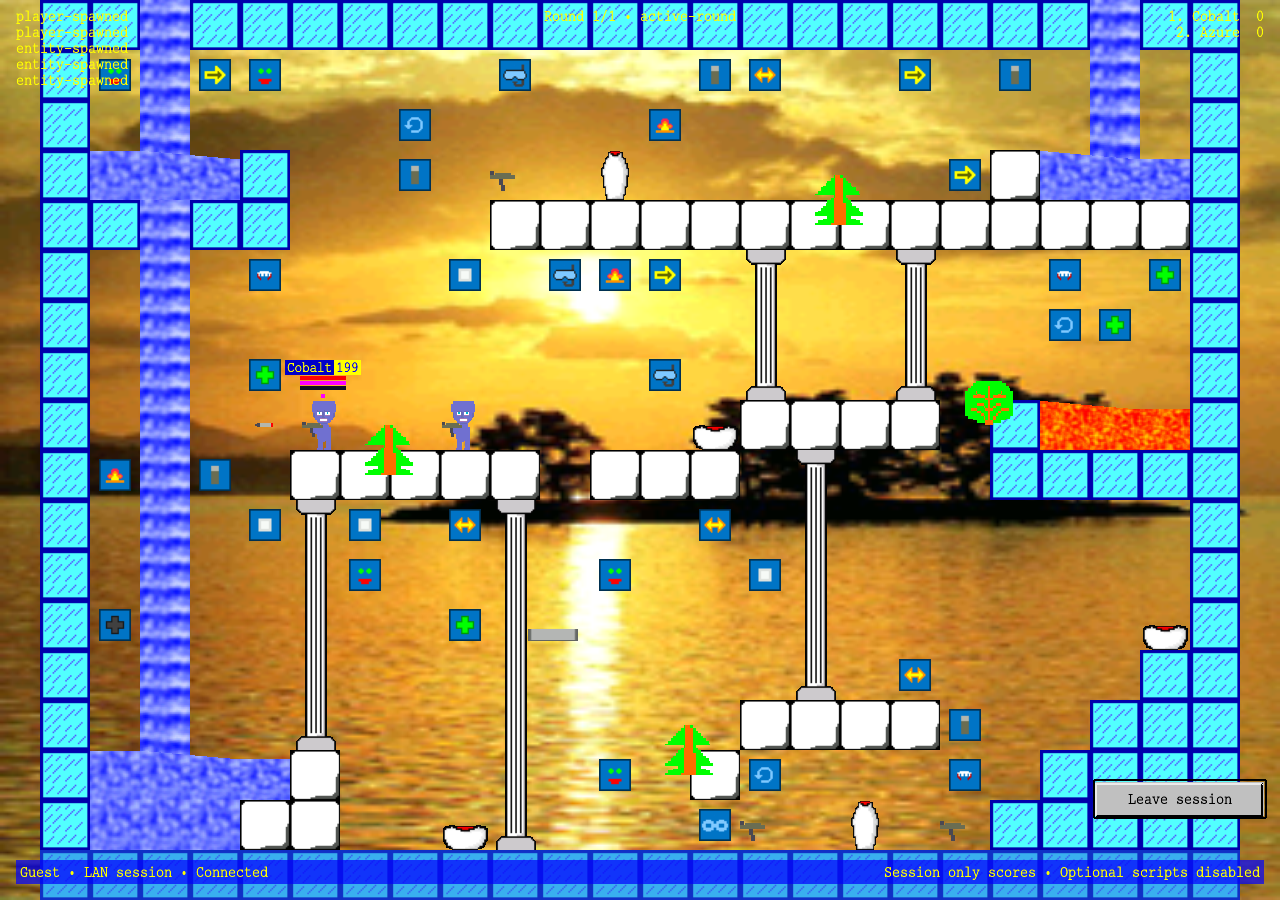
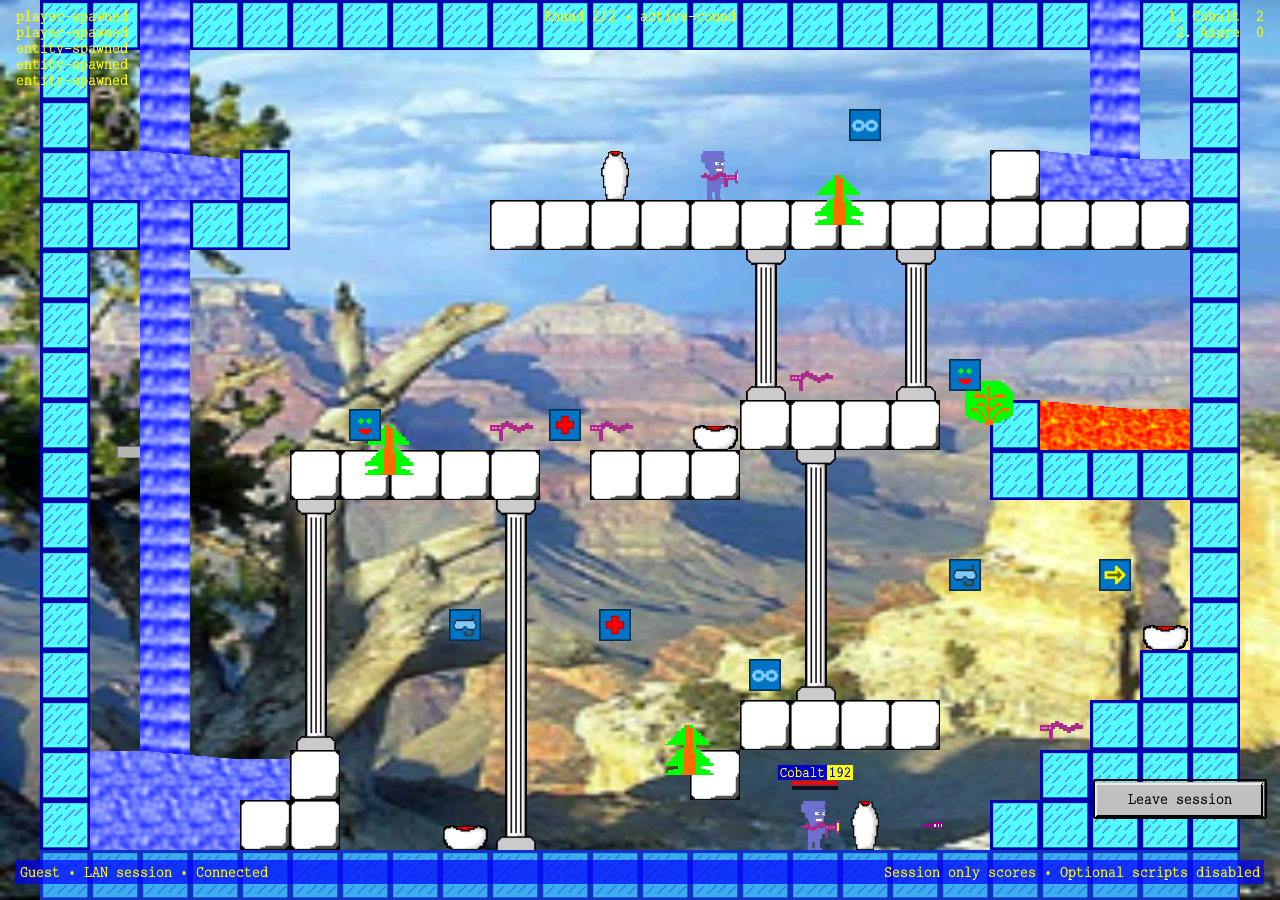
Record accepted KissOfDeath contrast screenshots

diff --git a/docs/design/screenshots/README.md b/docs/design/screenshots/README.md
@@ -216,12 +216,12 @@ Team reports functional closure satisfied through source review, developer tests
 
 ## KissOfDeath contrast — current affected coverage
 
-**Matrix status: defined; capture not released; current conformance: Pending.** The approved localized refinement affects only the light highlight in `resources/textures/weapon/012/shot/002.tga`. The supplied investigation checkpoint is `b736d4ef1cc8faa94e03a4556bf6ba5f68023962`; developer must verify that baseline and record the exact frozen artwork candidate before capture. This plan does not authorize application execution, environment provisioning, device operation, or a new platform/test campaign. Developer owns permitted capture after team-declared functional closure.
+**Current conformance: satisfied for both supplied Linux originals. Capture release: completed after team-declared functional closure of frozen candidate `5f4b4aa8ced4469c980c882a8dba4b3d3911c0e1`.** The approved localized refinement affects only six highlight pixels in `resources/textures/weapon/012/shot/002.tga`. Fixed canonical specifications and wireframes remain at `b736d4ef1cc8faa94e03a4556bf6ba5f68023962`. The assessment below owns current original hashes, reproduction inputs and acceptance limits. No new device, platform or temporal campaign is authorized.
 
 ### Fixed sources and bounded delta
 
 - Reuse [PLAY-01](../../screens/play-fullscreen.md) and its [PLAY-01 wireframe](../../screens/wireframes/play-fullscreen.md), [NET-05 functional contract](../../screens/network-match.md), [NET-05 UX specification](../screens/NET-05.md), its [NET-05 wireframe](../../screens/wireframes/network-match.md), and the [existing design system](../../design.md) from the verified baseline. All normative specifications and wireframes stay unchanged. No structural variant, layout, viewport class, or functional state is added.
-- The supplied investigation describes frame 002 as 36 occupied pixels within a 12 by 4 occupied bounding box, with no white highlight; frames 000 and 001 each have six white highlight pixels. These are supplied asset observations, not dimensions or pixel coordinates independently decoded by UX. The bounding box is not the texture canvas size. Developer must verify the original canvas, occupied mask and donor highlight coordinates before editing.
+- Developer's source-tied asset proof confirms a 32 by 32 canvas and 36 occupied pixels before and after the change. Exactly six existing occupied RGB pixels change from `(156,0,156)` to `(255,255,255)`: top-left, zero-based coordinates `(8,4)`, `(10,4)`, `(12,4)`, `(8,5)`, `(10,5)`, `(12,5)`. The header, occupied/black-key transparency mask and other resource files remain unchanged. The original 12 by 4 occupied bounding box is not the texture canvas size. These exact invariants are developer-supplied proof, not binary decoding executed by UX.
 - The approved visual delta is a retained light patch inside frame 002's existing magenta silhouette. Use the existing white highlight in frame 001 as the donor; do not introduce a new palette, outline, glow, trail, or enlarged silhouette. Preserve frame 002's canvas, occupied mask, transparency, alignment and remaining colors. The implementation handoff defines the bounded donor-pixel adjustment; this matrix does not create a second normative artwork specification.
 - `source/weapon/impl/KissOfDeathShot.cpp` supplies the shared `0, 1, 2, 1` shot sequence and network projectile visual. `source/weapon/LegacyWeapon.cpp` loads the shared shot stack with nearest filtering. `source/CanonicalWorldPresenter.cpp` presents that stack from authoritative projectile state. Reuse these paths without changing animation timing, geometry, speed, collision, renderer, filtering, or replication. Other weapon, gun and explosion assets remain outside scope.
 
@@ -233,22 +233,37 @@ Use the existing Linux x86-64 Docker Release GL4/Lua ON desktop profile, standar
 
 | Existing row / screen / stable wireframe | Route, descriptive state, and reproduction inputs | Expected result / changed criterion | Existing approved destination | Current status |
 |---|---|---|---|---|
-| Restoration offline comparison / PLAY-01 / PLAY-01 | MENU-01 → Play (F1) → Active play. Two valid local persons with distinct controls; record names, controls and round limit. Use the existing `gun` configuration controls to enable only weapon 12, KissOfDeath, before round creation, or record a normal pickup route. Fire normally across a clear part of the arena; capture the actual in-flight texture frame 002 and record shooter, facing, pose and shot location. No active network session or backend is needed. | Frame 002 retains a visible existing-palette white highlight inside its magenta silhouette at normal gameplay scale. The occupied footprint, shot placement and surrounding full arena/HUD remain unchanged. | `docs/design/screenshots/PLAY-01/evidence/offline-weapon-projectile.png` | Pending — no affected-frame candidate evidence supplied |
-| Restoration network comparison / NET-05 / NET-05 | MENU-01 → F2 → Host; peer F2 → Join → Direct connect → committed lobby → Ready/Start → Connected active play. One owned player per participant; same mode, level, weapon and mirror setup as offline. Apply permitted weapon configuration before hosted round creation. Capture one actual authoritative in-flight texture frame 002 in one client view; record shooter ownership and observing client role. Use only an already authorized task-isolated player-hosted environment; report unavailable dependencies rather than provision a replacement. | The authoritative projectile presents the same retained highlight and unchanged footprint as offline. Complete arena, default network visuals, truthful Connected status, HUD and session action remain available. One view covers this shared asset; no second ownership/platform row is required. | `docs/design/screenshots/NET-05/evidence/network-weapon-projectile.png` | Pending — no affected-frame candidate evidence supplied |
+| Restoration offline comparison / PLAY-01 / PLAY-01 | MENU-01 → Play (F1) → Active play. Two valid local persons with distinct controls; record names, controls and round limit. Use the existing `gun` configuration controls to enable only weapon 12, KissOfDeath, before round creation, or record a normal pickup route. Fire normally across a clear part of the arena; capture the actual in-flight texture frame 002 and record shooter, facing, pose and shot location. No active network session or backend is needed. | Frame 002 retains a visible existing-palette white highlight inside its magenta silhouette at normal gameplay scale. The occupied footprint, shot placement and surrounding full arena/HUD remain unchanged. | `docs/design/screenshots/PLAY-01/evidence/offline-weapon-projectile.png` | Accepted — supplied texture 002, Linux state/profile |
+| Restoration network comparison / NET-05 / NET-05 | MENU-01 → F2 → Host; peer F2 → Join → Direct connect → committed lobby → Ready/Start → Connected active play. One owned player per participant; same mode, level, weapon and mirror setup as offline. Apply permitted weapon configuration before hosted round creation. Capture one actual authoritative in-flight texture frame 002 in one client view; record shooter ownership and observing client role. Use only an already authorized task-isolated player-hosted environment; report unavailable dependencies rather than provision a replacement. | The authoritative projectile presents the same retained highlight and unchanged footprint as offline. Complete arena, default network visuals, truthful Connected status, HUD and session action remain available. One view covers this shared asset; no second ownership/platform row is required. | `docs/design/screenshots/NET-05/evidence/network-weapon-projectile.png` | Accepted — supplied texture 002, Linux state/profile |
 
 The routes and Active play labels reuse approved descriptive states; they do not assign new functional state IDs. Texture frame 002 means the third texture, not animation-entry offset 2. A still of frame 000 or 001 cannot close either changed criterion. Developer must identify the actual third texture through the visible sprite and supplied source-tied observation, using existing read-only diagnostics where available. An age estimate alone is not exact GPU-frame correlation. If the frame cannot be attributed or resolved at the required scale, report that evidence limit before changing capture coverage or adding instrumentation. Do not substitute an asset preview for an original implementation screenshot.
 
-### Release, evidence and acceptance limits
+### Current two-row assessment and provenance
 
-Before release, developer must confirm that only frame 002's intended occupied RGB pixels changed, its canvas and occupied/transparency masks match baseline, donor frames 000/001 remain byte-identical, and the shared presentation consumers above are unchanged. Reuse routine source/asset verification for these invariants; no new movement, renderer, platform or jump test campaign is requested. Source verification complements the two stills and does not replace them. Capture remains unreleased until team declares functional closure of the frozen candidate and confirms an authorized existing capture route.
+Visual gate: satisfied
 
-For each replacement, retain in this owning manifest the original path/SHA-256, immutable source checkpoint and any uncommitted presentation differences, capture UTC, actual state/route/setup, viewport/input profile, OS/architecture/renderer, executable/runtime and asset identities, level/mirror/background, shooter/facing/bonus state, and basis/limits for identifying texture frame 002. For NET-05 also retain the authorized task namespace, backend candidate identity, stable endpoint/transport mapping, actual ownership/session/match/round setup and available near-capture identity observations. Do not infer exact GPU state from nearby samples or disclose secrets. Developer computes artifact and changed-manifest hashes before exact integration. No candidate artifact or hash is supplied yet.
+UX opened both full-client canonical PNG originals and inspected the supplied frame-attribution and asset proofs. Both shots retain a visible white highlight inside the dark magenta silhouette at normal gameplay scale. Neither shows an enlarged outline, glow, trail, detached shot or visible surrounding presentation regression. The complete mirrored arena and two living players remain visible. Network Connected status, player status, round context and Leave session remain contained. Backgrounds, pickup populations, shot direction and fractional nearest-sampling phase differ legitimately; screen-pixel equality between the two views is not required. No blocking finding or rejected row remains.
 
-This evidence can establish the bounded highlight change for the supplied Linux profile only. It cannot establish native Intel Mac rendering, eliminate all projectile flicker, prove frame pacing or smoothness, or confirm a hardware root cause. Existing native GUI/live deferrals stay deferred, not passed. No additional device operation or temporal recording is requested. Final visual assessment applies to the completed two-row packet; current Pending status is not acceptance.
+| Screen / stable wireframe | Actual setup and observed shot | Capture interval UTC on 2026-10-28 | Original / supplied SHA-256 | Conformance |
+|---|---|---|---|---|
[2 lines of base64/hex data omitted]
+
+- **Frozen producer:** `5f4b4aa8ced4469c980c882a8dba4b3d3911c0e1`, built from a clean immutable archive. Developer reports no uncommitted presentation-source differences or source/art drift; only the two originals were uncommitted capture outputs. Team declared functional closure before this exact two-row release, with source review reporting no findings, 158/158 Docker CTest targets and exact six-pixel/mask verification passed; independent QA was not applicable. These are supplied specialist results, not checks executed by UX. Product acceptance remains separate.
[4 lines of base64/hex data omitted]
+- **Frame attribution:** `offline-frame-proof.json` and `network-frame-proof.json` beside the packet compare the original screenshot RGB pattern and occupied silhouette against all three committed textures under nearest sampling and both orientations. Each has only texture 002 as a match; the dark/white row distribution distinguishes it from unchanged 000/001, rather than relying on white-pixel presence or shot age. Reported sprite scales are 49.096 and 50 client pixels per full sprite canvas. UX also inspected original temporary neighbors `offline-cycle-left/14.png`, `offline-cycle-left/16.png`, `network-cycle/12.png` and `network-cycle/16.png` as context only. Those sparse samples are not additional accepted rows, new canonical evidence, a smoothness test or exact temporal correlation.
+- **Incidental state:** Ordinary pickups and transient network `player spawned`/`entity spawned` event text remain visible; neither obscures the assessed shot or required controls. Offline/network ammunition values and background differences are authentic setup context, not evidence defects. No cosmetic recapture is required.
+
[1 lines of base64/hex data omitted]
+
+This complete two-row evidence set establishes only the bounded KissOfDeath highlight for the supplied Linux software-GL4 profile. It does not establish native Intel Mac/GL1 behavior, resolve all projectile flicker, prove frame pacing or smoothness, or confirm a hardware root cause. The user's actual nightly source remains unknown; existing native GUI/live deferrals stay deferred, not passed. No new device operation, temporal recording or platform campaign is requested. Developer reports the owned apps/displays and listener stopped; developer owns temporary evidence cleanup after consumer release. Exact integration of these two assessed original hashes and this manifest without presentation-source changes needs no second capture or assessment. Developer computes the changed manifest hash before integration. Normative specifications, wireframes and artwork remain unedited by UX.
 
 ## Network weapon, projectile, and jump restoration
 
-**Capture release: completed after team-declared functional closure. Current conformance: satisfied for the coordinated Linux Pistol restoration scope, with sampled temporal inspection limits below.** Frozen source is `cb4dbd95c897570292d6f29e8edbc985427fb8ec` on `bugfix/network-jump-and-render-parity`. Fixed specifications and wireframes remain at baseline `412abfaae857ab65ba21746819de54c3ac4446be`. This section authorizes evidence coverage only. It does not change normative visual intent, functional behavior, or wireframes.
+**Historical Pistol restoration conformance: satisfied for its original Linux scope, with sampled temporal inspection limits below.** Frozen source is `cb4dbd95c897570292d6f29e8edbc985427fb8ec` on `bugfix/network-jump-and-render-parity`; capture followed team-declared functional closure. Fixed specifications and wireframes remain at baseline `412abfaae857ab65ba21746819de54c3ac4446be`. The two PNG destinations now contain the accepted [KissOfDeath originals](#kissofdeath-contrast--current-affected-coverage); Pistol still assessments/hashes below describe historical bytes, not their replacements. The recordings/receipt remain unchanged. This section changes no normative visual intent, functional behavior, or wireframe.
 
 ### Fixed sources and scope
 
